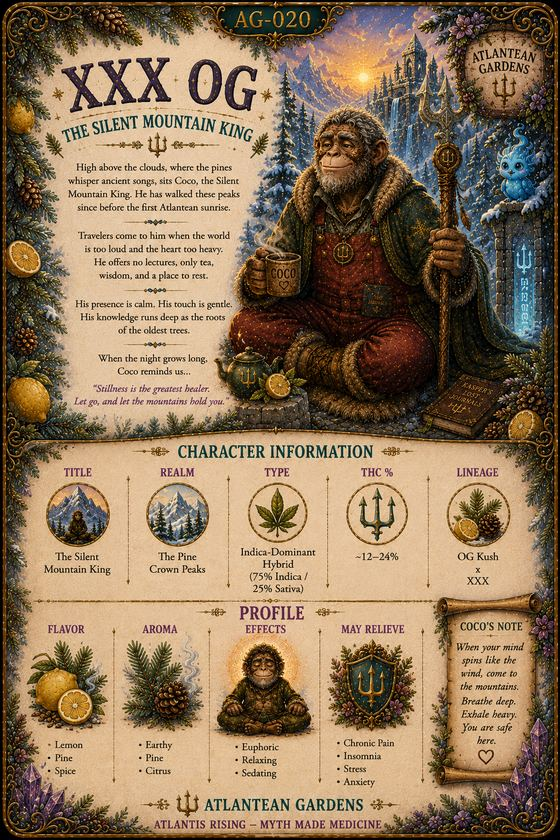
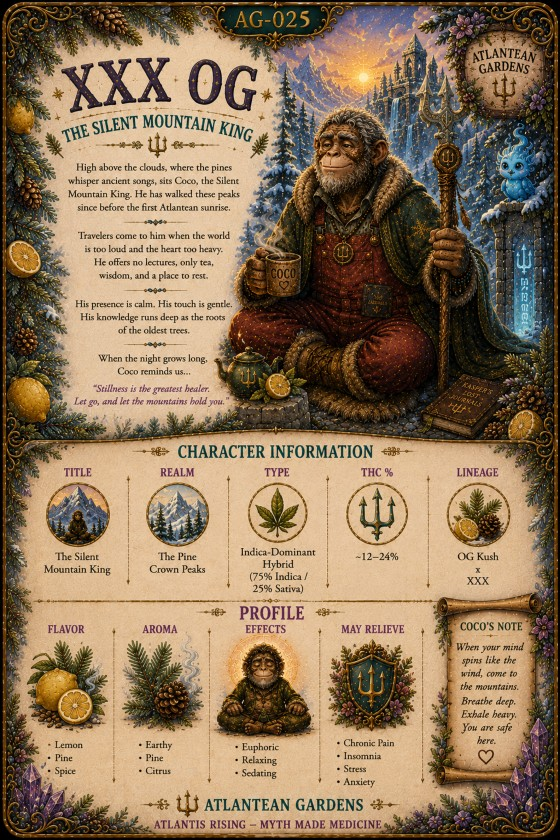
Show AG-025 on the XXX OG card images
The front and back plaques still read AG-020. Only the last digit is
repainted as a 5, in matching engraved gold; the rest of each painting
is unchanged. A version tag on both image paths stops browsers showing
the cached old card.

diff --git a/living-atlas/data/world.js b/living-atlas/data/world.js
@@ -1380,8 +1380,8 @@ window.WORLD = {
    "terpenes": [],
    "growNotes": "",
    "art": {
-    "front": "assets/cards/xxx-og-front.jpg",
-    "back": "assets/cards/xxx-og-back.jpg"
+    "front": "assets/cards/xxx-og-front.jpg?v=2",
+    "back": "assets/cards/xxx-og-back.jpg?v=2"
    },
    "printedRealm": "The Pine Crown Peaks"
   },
